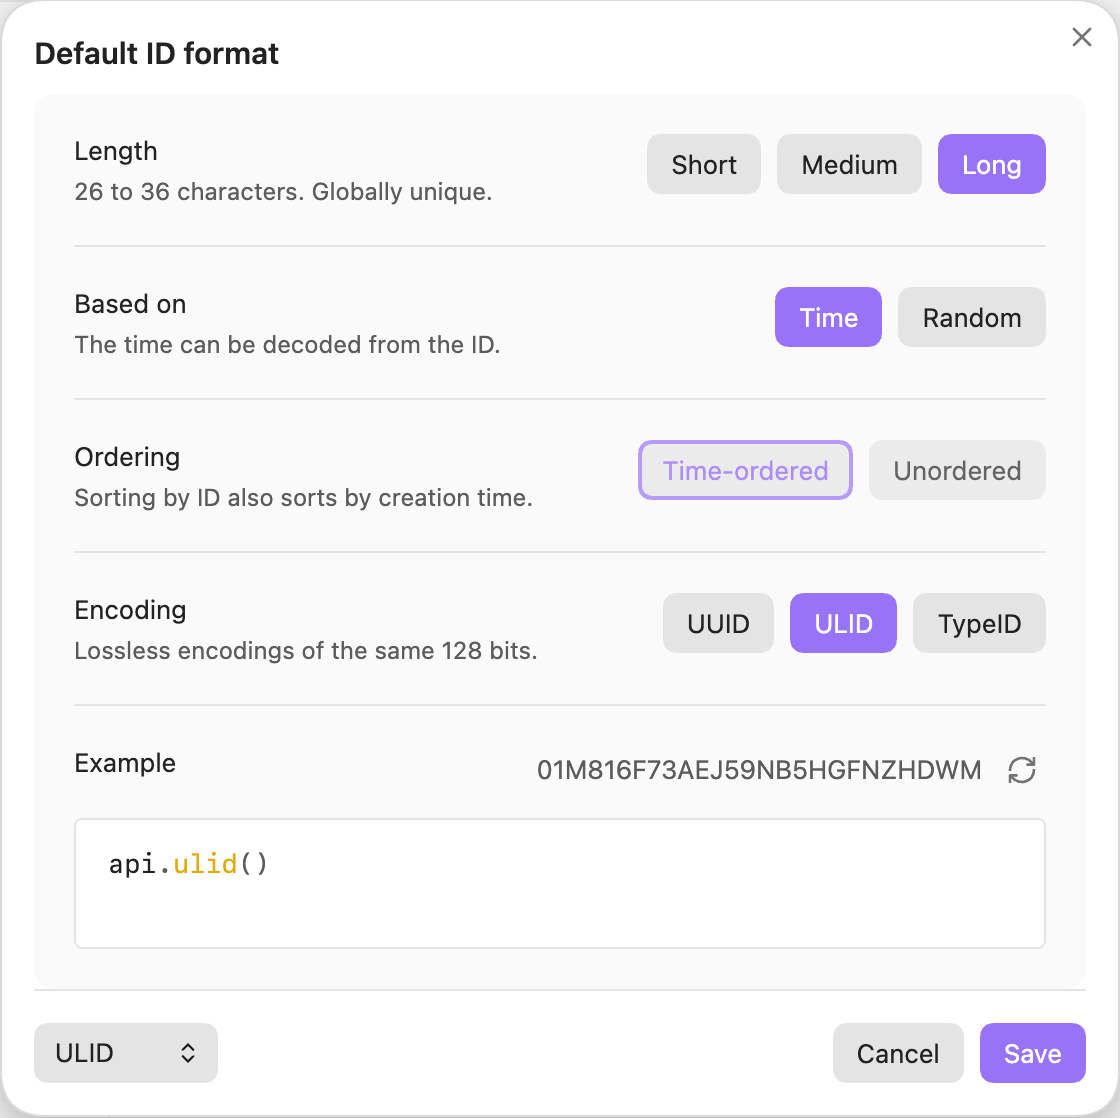
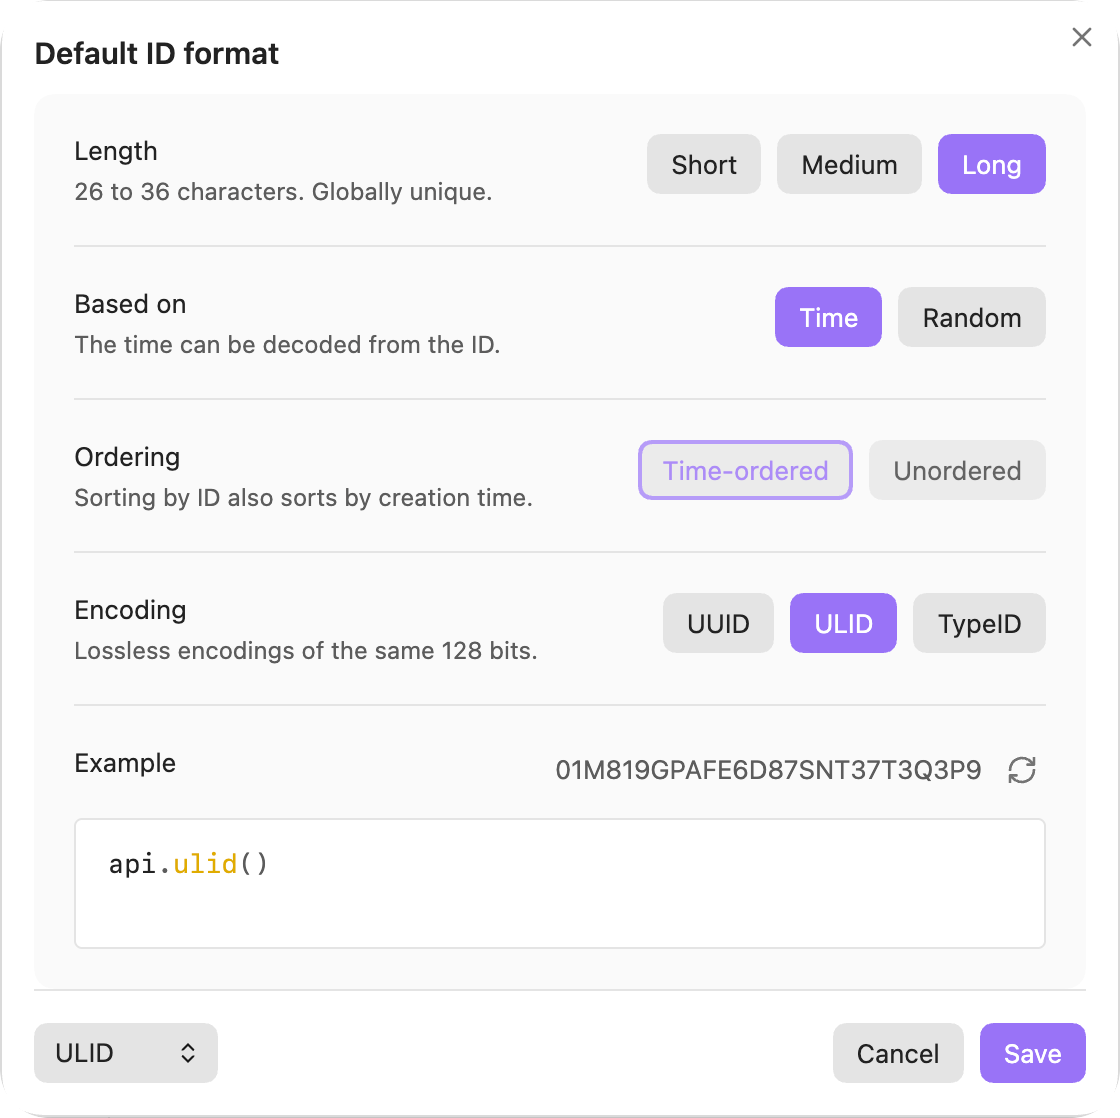
docs: retake the screenshots and limit their width

diff --git a/README.md b/README.md
@@ -7,7 +7,7 @@ Generate unique IDs in Obsidian, from short 7-character IDs to 128-bit ones: bas
 - Call any format from Templater or your own scripts, with its own options.
 - Works on desktop and mobile, and makes no network requests.
 
-![The Default ID format modal, with Long, Time, Time-ordered and ULID selected, an example ID and the equivalent api.ulid() call](images/modal.webp)
+<img src="images/modal.webp" width="560" alt="The Default ID format modal, with Long, Time, Time-ordered and ULID selected, an example ID and the equivalent api.ulid() call">
 
 ## Commands
 
@@ -22,7 +22,7 @@ No hotkeys are set by default. To assign them, search for Unique ID Generator in
 
 **Default ID format** sets the format that the commands and `api.generate()` use. The default is Sqids. The settings tab shows the call that gives the same result and an example ID.
 
-![The Default ID format setting, with the api.sqids() call and an example ID](images/settings.webp)
+<img src="images/settings.webp" width="611" alt="The Default ID format setting, with the api.sqids() call and an example ID">
 
 To choose another format, select **Change...**:
 
